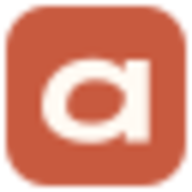
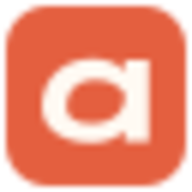
Revert "refactor(showcase): refine Abalone visual tone"
This reverts commit fea5d2ccde6a49fe27fdcd25435698ff323d837a.

diff --git a/site/styles.css b/site/styles.css
@@ -1,22 +1,22 @@
 :root {
   color-scheme: light;
-  --brand-canvas: #f7f2ea;
-  --brand-surface: #fffcf8;
-  --brand-surface-subtle: #f0ebe3;
-  --brand-control: #e9e2d8;
-  --brand-ink: #16312d;
+  --brand-canvas: #f8f3eb;
+  --brand-surface: #fffdfc;
+  --brand-surface-subtle: #f2ede5;
+  --brand-control: #eee7dd;
+  --brand-ink: #18312d;
   --brand-ink-secondary: #4b5d58;
-  --brand-ink-muted: #6a7873;
-  --brand-border: rgb(22 49 45 / 14%);
-  --brand-border-strong: rgb(22 49 45 / 24%);
-  --brand-accent: #0d6b64;
+  --brand-ink-muted: #687873;
+  --brand-border: rgb(24 49 45 / 14%);
+  --brand-border-strong: rgb(24 49 45 / 24%);
+  --brand-accent: #0b6f68;
   --brand-accent-strong: #07534e;
-  --brand-accent-soft: #dceae6;
+  --brand-accent-soft: #ddeeea;
   --brand-on-accent: #ffffff;
-  --brand-signature: #c85a3f;
-  --brand-signature-strong: #9b3e2e;
-  --brand-signature-soft: #f3ddd3;
-  --brand-focus: #0d6b64;
+  --brand-signature: #e45f3f;
+  --brand-signature-strong: #b44830;
+  --brand-signature-soft: #fbe4db;
+  --brand-focus: #0b6f68;
   --brand-on-dark: #fffaf3;
   --brand-on-dark-muted: #c5d2cd;
   --brand-on-dark-border: rgb(255 250 243 / 18%);
@@ -40,8 +40,6 @@
   --warning-soft: #fff8e8;
   --danger: #b42318;
   --danger-soft: #fff1f0;
-  --information: #355f7b;
-  --information-soft: #eaf1f5;
   --media-overlay: rgb(16 19 24 / 88%);
 }
 
@@ -62,6 +60,7 @@ body {
   margin: 0;
   min-width: 320px;
   overflow-x: hidden;
+  border-top: 4px solid var(--brand-signature);
   background: var(--canvas);
   color: var(--text);
   font-family: -apple-system, BlinkMacSystemFont, "Pretendard", "Segoe UI", sans-serif;
@@ -219,31 +218,20 @@ footer {
   display: grid;
   grid-template-columns: minmax(0, 1.1fr) minmax(400px, 0.9fr);
   align-items: center;
-  gap: 64px;
-  padding: 88px 0 80px;
+  gap: 48px;
+  padding: 72px 0 64px;
 }
 
 .hero::before {
   position: absolute;
   z-index: -1;
   inset: 0 calc(50% - 50vw);
-  border-block: 1px solid var(--border);
-  background: var(--surface);
+  background: var(--brand-signature-soft);
   content: "";
 }
 
 .hero-copy {
-  position: relative;
   max-width: 620px;
-  padding-left: 28px;
-}
-
-.hero-copy::before {
-  position: absolute;
-  inset: 6px auto 6px 0;
-  width: 2px;
-  background: var(--brand-signature);
-  content: "";
 }
 
 .eyebrow {
@@ -258,16 +246,16 @@ footer {
 }
 
 .eyebrow span {
-  width: 18px;
-  height: 2px;
-  border-radius: 1px;
+  width: 24px;
+  height: 4px;
+  border-radius: 2px;
   background: var(--brand-signature);
 }
 
 h1 {
   margin-bottom: 20px;
-  font-size: clamp(36px, 3.8vw, 50px);
-  font-weight: 600;
+  font-size: clamp(36px, 3.8vw, 48px);
+  font-weight: 650;
   line-height: 1.14;
   letter-spacing: -0.025em;
 }
@@ -278,8 +266,8 @@ h1 em {
   text-decoration: underline;
   text-decoration-color: var(--brand-signature);
   text-decoration-skip-ink: auto;
-  text-decoration-thickness: 0.07em;
-  text-underline-offset: 0.17em;
+  text-decoration-thickness: 0.12em;
+  text-underline-offset: 0.13em;
 }
 
 .intro {
@@ -361,7 +349,7 @@ h1 em {
   width: 7px;
   height: 7px;
   border-radius: 50%;
-  background: var(--information);
+  background: var(--success);
 }
 
 .route-card {
@@ -372,9 +360,9 @@ h1 em {
 }
 
 .catalog-console {
-  padding: 28px;
-  border: 1px solid var(--brand-on-dark-border);
-  border-left: 3px solid var(--brand-signature);
+  padding: 24px;
+  border: 0;
+  border-top: 8px solid var(--brand-signature);
   background: var(--brand-ink);
   color: var(--brand-on-dark);
 }
@@ -399,7 +387,7 @@ h1 em {
   display: inline-flex;
   align-items: center;
   gap: 6px;
-  color: var(--text-secondary);
+  color: var(--success);
   font-size: 12px;
   font-weight: 650;
 }
@@ -487,19 +475,24 @@ h1 em {
 
 .progress-stack b {
   padding: 3px 8px;
-  border-radius: 4px;
+  border-radius: 999px;
   background: var(--control);
   color: var(--text-secondary);
   font-size: 11px;
   font-weight: 600;
 }
 
-.catalog-console .narrative-discovery b {
+.progress-stack .safe-step b {
+  background: var(--success-soft);
+  color: var(--success);
+}
+
+.catalog-console .progress-stack > div:nth-child(1) b {
   background: var(--brand-signature-soft);
   color: var(--brand-signature-strong);
 }
 
-.catalog-console .narrative-validation b {
+.catalog-console .progress-stack > div:nth-child(2) b {
   background: var(--brand-accent-soft);
   color: var(--brand-accent-strong);
 }
@@ -720,8 +713,8 @@ h1 em {
   flex: none;
   padding: 4px 8px;
   border-radius: 999px;
-  background: var(--information-soft);
-  color: var(--information);
+  background: var(--success-soft);
+  color: var(--success);
   font-size: 11px;
   font-weight: 650;
 }
@@ -734,9 +727,9 @@ h1 em {
   content: "";
 }
 
-.app-status.success-status {
-  background: var(--success-soft);
-  color: var(--success);
+.app-status.prototype-status {
+  background: var(--accent-soft);
+  color: var(--accent);
 }
 
 .program-group + .program-group {
@@ -764,8 +757,8 @@ h1 em {
 }
 
 .program-group-heading h3::before {
-  width: 18px;
-  height: 2px;
+  width: 24px;
+  height: 4px;
   flex: none;
   border-radius: 2px;
   background: var(--brand-signature);
@@ -856,8 +849,8 @@ h1 em {
   padding: 16px;
   border: 1px solid var(--border-strong);
   border-radius: 8px;
-  background: var(--information-soft);
-  color: var(--information);
+  background: var(--accent-soft);
+  color: var(--accent);
   font-size: 12px;
   font-weight: 550;
   line-height: 1.65;
@@ -871,8 +864,8 @@ h1 em {
   padding: 20px;
   border: 1px solid var(--border);
   border-radius: 8px;
-  border-color: rgb(53 95 123 / 24%);
-  background: var(--information-soft);
+  border-color: rgb(180 72 48 / 24%);
+  background: var(--brand-signature-soft);
 }
 
 .notice-icon {
@@ -882,7 +875,7 @@ h1 em {
   flex: none;
   place-items: center;
   border-radius: 50%;
-  background: var(--information);
+  background: var(--brand-signature);
   color: var(--brand-on-dark);
   font-family: Georgia, serif;
   font-size: 13px;
@@ -910,8 +903,7 @@ h1 em {
   position: absolute;
   z-index: -1;
   inset: 0 calc(50% - 50vw);
-  border-bottom: 1px solid var(--border);
-  background: var(--surface);
+  background: var(--brand-signature-soft);
   content: "";
 }
 
@@ -1208,7 +1200,7 @@ h1 em {
 }
 
 .form-status[data-state="busy"] {
-  color: var(--information);
+  color: var(--accent);
 }
 
 .form-status[data-state="success"] {
@@ -1290,7 +1282,7 @@ h1 em {
   padding: 0;
   overflow: hidden;
   border: 1px solid var(--border-strong);
-  border-top: 3px solid var(--brand-signature);
+  border-top: 6px solid var(--brand-signature);
   border-radius: 10px;
   background: var(--surface);
   color: var(--text);

diff --git a/site/app.js b/site/app.js
@@ -22,8 +22,8 @@ function eyebrow(text) {
   return node;
 }
 
-function statusBadge(text = "설치 인증코드 필요", tone = "information") {
-  return element("span", `app-status ${tone}-status`, text);
+function statusBadge(text = "설치 인증코드 필요") {
+  return element("span", "app-status", text);
 }
 
 function isPrototype(app) {
@@ -148,10 +148,8 @@ function renderCatalogCard(app, index) {
   actions.append(link("primary-action", "사례 보기", routeHref("apps", app.id)));
   if (hasInstallRoute(app)) actions.append(link("secondary-action", isPrototype(app) ? "제공 상태" : "설치 정보", routeHref("install", app.id)));
   copy.append(flow, actions);
-  const badge = statusBadge(
-    isPrototype(app) ? "기능 데모 · 파일 없음" : "설치 가능",
-    isPrototype(app) ? "information" : "success",
-  );
+  const badge = statusBadge(isPrototype(app) ? "기능 데모 · 파일 없음" : "설치 가능");
+  if (isPrototype(app)) badge.classList.add("prototype-status");
   if (!isPrototype(app) && app.demoGif) {
     card.classList.add("evidence-card");
     copy.prepend(badge);
@@ -207,12 +205,12 @@ function renderCatalog(catalog, page) {
     element("p", "", "현업의 말과 화면을 바탕으로 필요한 범위를 함께 정합니다."),
   );
   const progress = element("div", "progress-stack");
-  for (const [step, name, detail, state, narrativeClass] of [
-    ["01", "업무 이해", "사람·순서·규칙·예외 확인", "발견", "narrative-discovery"],
-    ["02", "작은 검증", "중요한 흐름부터 실제 화면으로 확인", "검증", "narrative-validation"],
-    ["03", "적용과 개선", "사용 결과를 보고 합의한 범위에서 보완", "개선", "narrative-improvement"],
+  for (const [step, name, detail, state] of [
+    ["01", "업무 이해", "사람·순서·규칙·예외 확인", "발견"],
+    ["02", "작은 검증", "중요한 흐름부터 실제 화면으로 확인", "검증"],
+    ["03", "적용과 개선", "사용 결과를 보고 합의한 범위에서 보완", "개선"],
   ]) {
-    const row = element("div", narrativeClass);
+    const row = element("div", state === "개선" ? "safe-step" : "");
     const description = element("p");
     description.append(element("strong", "", name), document.createTextNode(detail));
     row.append(element("span", "", step), description, element("b", "", state));
@@ -280,6 +278,7 @@ function renderDetail(app, page) {
   const copy = element("div");
   copy.append(element("h1", "", app.name), element("p", "intro", app.description));
   const badge = statusBadge(isPrototype(app) ? "기능 데모 · 파일 없음" : "설치 인증코드 필요");
+  if (isPrototype(app)) badge.classList.add("prototype-status");
   header.append(copy, badge);
   const actions = element("div", "hero-actions");
   if (hasInstallRoute(app)) actions.append(link("primary-action", "설치 페이지로 이동", routeHref("install", app.id)));

diff --git a/site/index.html b/site/index.html
@@ -7,7 +7,7 @@
       name="description"
       content="고객의 업종과 실제 업무 흐름을 이해한 뒤 필요한 프로그램을 설계하고 검증하는 원격 밀착형 서비스와 제작 사례를 살펴보세요."
     />
-    <meta name="theme-color" content="#16312D" />
+    <meta name="theme-color" content="#E45F3F" />
     <title>Abalone — 업무 맞춤 프로그램 제작</title>
     <link rel="icon" href="./abalone-favicon-v2.svg" type="image/svg+xml" />
     <link rel="icon" href="./abalone-favicon-v2-32.png" sizes="32x32" type="image/png" />

diff --git a/docs/showcase-ux-contract.md b/docs/showcase-ux-contract.md
@@ -24,9 +24,9 @@ When the assistant considers the brief ready, the visitor can expand and review 
 ## Visual direction
 
 - Feel close to real work and calm about complexity: operational, readable, truthful, and quietly polished.
-- Keep `nohdol-clean` as the functional base and map the separate Abalone layer to warm `brand.canvas #F7F2EA`, deep `brand.ink #16312D`, action/focus `brand.accent #0D6B64`, and burnished identity `brand.signature #C85A3F`; semantic status colors remain independent.
+- Keep `nohdol-clean` as the functional base and map the separate Abalone layer to warm `brand.canvas #F8F3EB`, deep `brand.ink #18312D`, action/focus `brand.accent #0B6F68`, and warm identity `brand.signature #E45F3F`; semantic status colors remain independent.
 - Use a 4px spacing grid, 6px controls, 8px grouped surfaces, and 10px floating or emphasized surfaces.
-- Use borders and small surface shifts for depth. The public hero and route introductions use a restrained warm surface, asymmetric whitespace, a deep-ink process field, and thin signature rails rather than a large pastel wash; ordinary content has no drop shadow.
+- Use borders and small surface shifts for depth. The public hero and route introductions may use bounded deep-ink and warm-signature solid fields for identity, while ordinary content has no drop shadow.
 - Use the native Korean-capable font stack and a compact type scale. Weight and tone create hierarchy before size.
 - The signature structure is one visible `업무 이해 -> 작은 검증 -> 적용과 개선` path. Do not repeat the same sequence as a trust strip and another feature list.
 - Keep the verified product group ahead of the deterministic demo group. Both may use cards because each program is independently selectable, but their headings, counts, badges, and availability language remain distinct.
